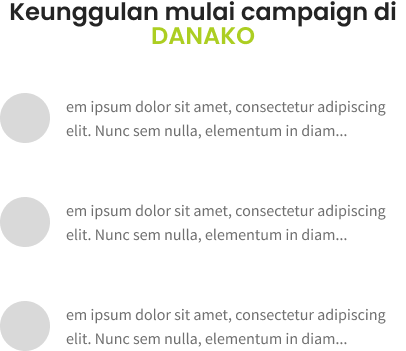
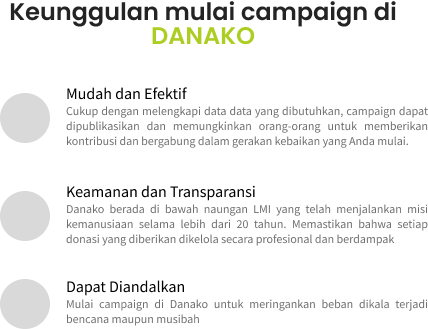
updae

diff --git a/public/danako/css/style.css b/public/danako/css/style.css
@@ -363,7 +363,7 @@
   
     .h-utama .banner{
       background: #C4C4C4;
-      opacity: 0.6;
+    
     }
   
     .banner {

diff --git a/resources/views/landing/utama.blade.php b/resources/views/landing/utama.blade.php
@@ -13,9 +13,9 @@
         <div class="banner">
             <div class="row ">
                 <div class="col-md-6">
-                    <p>Lorem ipsum dolor sit amet, consectetur adipiscing elit. Nunc</p>
-                    <h2 class="pb-3">Lorem ipsum dolor sit  amet consectetur.</h1>
-                    <button type="button" class="btn btn-primary btn-lg">Large button</button>
+                    <p class="text-dark">Tak perlu sejuta untuk berdampak, mulai dari seribu</p>
+                    <h1 class="pb-3 color-primary">Satukan kebaikan<br><span class="text-dark">Salurkan kebermanfaatan.</span> </h1>
+                    <button type="button" class="btn btn-primary btn-lg bg-danako-primary border-0 border-5">Donasi sekarang</button>
                 </div>
                 <div class="col-md-6">
                     <img src="{{ asset('') }}danako/img/campaignunggulan.png" class="img-fluid">
@@ -25,35 +25,37 @@
     </div>
   </section>
 
-  <section class="info-danako">
-    <div class="container">
-        <div class="banner-info">
-            <div class="row container">
-                <h4 class="text-center pt-2">Lorem Ipsum</h4>
-                <div class="col-md-3 text-center py-3 px-5">
-                    <img src="{{ asset('') }}danako/img/Ellipse67.png">
-                    <h5>Zakat</h5>
-                    <p>Lorem ipsum dolor sit amet, consectetur adipiscing elit. Nunc sem nulla</p>
-                </div>
-                <div class="col-md-3 text-center py-3 px-5">
-                    <img src="{{ asset('') }}danako/img/Ellipse67.png">
-                    <h5>Zakat</h5>
-                    <p>Lorem ipsum dolor sit amet, consectetur adipiscing elit. Nunc sem nulla</p>
-                </div>
-                <div class="col-md-3 text-center py-3 px-5">
-                    <img src="{{ asset('') }}danako/img/Ellipse67.png">
-                    <h5>Zakat</h5>
-                    <p>Lorem ipsum dolor sit amet, consectetur adipiscing elit. Nunc sem nulla</p>
-                </div>
-                <div class="col-md-3 text-center py-3 px-5">
-                    <img src="{{ asset('') }}danako/img/Ellipse67.png">
-                    <h5>Zakat</h5>
-                    <p>Lorem ipsum dolor sit amet, consectetur adipiscing elit. Nunc sem nulla</p>
-                </div>
-            </div>
-        </div>
-    </div>
-  </section>
+  <a href="{{ url('ziswaf') }}">
+    <section class="info-danako">
+      <div class="container">
+          <div class="banner-info">
+              <div class="row container">
+                  <h4 class="text-center pt-2 text-black">Lorem Ipsum</h4>
+                  <div class="col-md-3 text-center py-3 px-5">
+                      <img src="{{ asset('') }}danako/img/Ellipse67.png">
+                      <h5>Zakat</h5>
+                      <p>Sedekahkan harta, berbagilah dengan mereka yang membutuhkan.</p>
+                  </div>
+                  <div class="col-md-3 text-center py-3 px-5">
+                      <img src="{{ asset('') }}danako/img/Ellipse67.png">
+                      <h5>Infaq</h5>
+                      <p>Derma dari hati, tak terbatas waktu dan materi, demi kepentingan khalayak umum.</p>
+                  </div>
+                  <div class="col-md-3 text-center py-3 px-5">
+                      <img src="{{ asset('') }}danako/img/Ellipse67.png">
+                      <h5>Sedekah</h5>
+                      <p>Berikanlah bantuan dengan tulus, ringankan beban mereka yang terpuruk.</p>
+                  </div>
+                  <div class="col-md-3 text-center py-3 px-5">
+                      <img src="{{ asset('') }}danako/img/Ellipse67.png">
+                      <h5>Wakaf</h5>
+                      <p>Tanamkan amal jariyah, beri manfaat untuk umat selamanya.</p>
+                  </div>
+              </div>
+          </div>
+      </div>
+    </section>
+  </a>
 
   <section class="pt-5 pb-5">
     <h1 class="text-center">Kategori lainnya</h1>

diff --git a/resources/views/landing/ziswaf.blade.php b/resources/views/landing/ziswaf.blade.php
@@ -1,0 +1,97 @@
+@extends('landing.layouts.app')
+
+@section('title')
+    Dashboard
+@endsection
+
+
+
+@section('content')
+
+ <div class="container">
+        <div class="title">
+            <img src="{{ asset('') }}danako/img/Expand_left.svg" />
+            <span>Ziswaf</span>
+        </div>
+      </div>
+
+      <div class="container">
+        <div class="row">
+
+            <div class="col-md-3 mb-4">
+              <div class="card">
+                <div class="container">
+                  <div class="card-body">
+                    <div class="card-body d-flex align-items-center">
+                      <img src="https://via.placeholder.com/60" alt="Card image cap" class="rounded-circle me-3">
+                      <h5 class="card-title mb-0">Zakat</h5>
+                    </div>
+                    <p class="card-text">Lorem ipsum dolor sit amet, consectetur adipiscing elit. Nunc sem nulla, elementum in diam sit amet, Lorem ipsum dolor sit amet, consectetur adipisci.</p>
+                  </div>
+                  <img src="{{ asset('') }}danako/img/ziswaf/1.png" class="card-img-top" alt="...">
+                </div>
+              </div>
+            </div>
+          
+            <div class="col-md-3 mb-4">
+              <div class="card">
+                <div class="container">
+                  <img src="{{ asset('') }}danako/img/ziswaf/1.png" class="card-img-top" alt="...">
+                  <div class="card-body">
+                    <div class="card-body d-flex align-items-center">
+                      <img src="https://via.placeholder.com/60" alt="Card image cap" class="rounded-circle me-3">
+                      <h5 class="card-title mb-0">Zakat</h5>
+                    </div>
+                    <p class="card-text">Lorem ipsum dolor sit amet, consectetur adipiscing elit. Nunc sem nulla, elementum in diam sit amet, Lorem ipsum dolor sit amet, consectetur adipisci.</p>
+                  </div>
+                </div>
+              </div>
+            </div>
+
+            <div class="col-md-3 mb-4">
+                <div class="card">
+                  <div class="container">
+                    <div class="card-body">
+                      <div class="card-body d-flex align-items-center">
+                        <img src="https://via.placeholder.com/60" alt="Card image cap" class="rounded-circle me-3">
+                        <h5 class="card-title mb-0">Zakat</h5>
+                      </div>
+                      <p class="card-text">Lorem ipsum dolor sit amet, consectetur adipiscing elit. Nunc sem nulla, elementum in diam sit amet, Lorem ipsum dolor sit amet, consectetur adipisci.</p>
+                    </div>
+                    <img src="{{ asset('') }}danako/img/ziswaf/1.png" class="card-img-top" alt="...">
+                  </div>
+                </div>
+              </div>
+            
+              <div class="col-md-3 mb-4">
+                <div class="card">
+                  <div class="container">
+                    <img src="{{ asset('') }}danako/img/ziswaf/1.png" class="card-img-top" alt="...">
+                    <div class="card-body">
+                      <div class="card-body d-flex align-items-center">
+                        <img src="https://via.placeholder.com/60" alt="Card image cap" class="rounded-circle me-3">
+                        <h5 class="card-title mb-0">Zakat</h5>
+                      </div>
+                      <p class="card-text">Lorem ipsum dolor sit amet, consectetur adipiscing elit. Nunc sem nulla, elementum in diam sit amet, Lorem ipsum dolor sit amet, consectetur adipisci.</p>
+                    </div>
+                  </div>
+                </div>
+              </div>
+
+          </div>
+      </div>
+
+@endsection
+
+
+@push('after-script')
+
+
+
+
+<script>
+
+  </script>
+@endpush
+
+

diff --git a/resources/views/landing/index.blade.php b/resources/views/landing/index.blade.php
@@ -12,15 +12,15 @@
      <div class="text-center">
        <div class="text-header">
          <h1 class="color-primary">
-           Lorem ipsum dolor <span class="text-white">sit  amet</span>
+          Satukan kebaikan <span class="text-white">Salurkan </span>
            <br>
-           consectetur
+           Kebermanfaatan
          </h1>
-         <p class="text-white">Lorem ipsum dolor sit amet, consectetur adipiscing elit. Nunc</p>
+         <p class="text-white">Tak perlu sejuta untuk berdampak, mulai dari seribu</p>
        </div>
        <div class="btn-header pt-5">
-         <button type="button" class="btn btn-primary btn-lg bg-danako-primary border-0 bt-index mx-5 ">Large button</button>
-         <button type="button" class="btn btn-outline-secondary btn-lg mx-5 border-2 bt-index text-white">Large button</button>
+         <button type="button" class="btn btn-primary btn-lg bg-danako-primary border-0 bt-index mx-5 ">Donasi sekarang</button>
+         <a href="{{ url('ajukan-campaign') }}" class="btn btn-outline-secondary btn-lg mx-5 border-2 bt-index text-white">Ajukan campaign</a>
        </div>
      </div>
     </div>
@@ -44,7 +44,7 @@
                <h5 class="m-0">Cepat dan Tepat</h5>
              </div>
              <div class="card-body text-start text-hero">
-               Lorem ipsum dolor sit amet, consectetur adipiscing elit. Nunc sollicitudin arcu ligula, eget maximus sapien ultrices vel. Ut erat metus, posuere et dictum sit amet, Lorem ipsum dolor sit amet, consectetur 
+              Kami mengutamakan kecepatan dan ketepatan dalam menyalurkan donasi. Hal ini tentunya akan sangat berguna bagi mereka yang saat ini sedang membutuhkan dana darurat.
              </div>
            </div>
          </div>
@@ -54,10 +54,10 @@
                <div class="icon">
                  <img src="{{ asset('') }}custom/icons/Done_all_round_light.svg" alt="">
                </div>
-               <h5 class="m-0">Cepat dan Tepat</h5>
+               <h5 class="m-0">Amanah</h5>
              </div>
              <div class="card-body text-start text-hero">
-               Lorem ipsum dolor sit amet, consectetur adipiscing elit. Nunc sollicitudin arcu ligula, eget maximus sapien ultrices vel. Ut erat metus, posuere et dictum sit amet, Lorem ipsum dolor sit amet, consectetur 
+              Kami berkomitmen untuk menjaga kepercayaan Anda sebagai donatur. Oleh karena itu, kami selalu memastikan transparansi dan akuntabilitas dalam mengelola donasi yang diterima.
              </div>
            </div>
          </div>
@@ -67,10 +67,10 @@
                <div class="icon">
                  <img src="{{ asset('') }}custom/icons/Line_up_light.svg" alt="">
                </div>
-               <h5 class="m-0">Cepat dan Tepat</h5>
+               <h5 class="m-0">Berdampak</h5>
              </div>
              <div class="card-body text-start text-hero">
-               Lorem ipsum dolor sit amet, consectetur adipiscing elit. Nunc sollicitudin arcu ligula, eget maximus sapien ultrices vel. Ut erat metus, posuere et dictum sit amet, Lorem ipsum dolor sit amet, consectetur 
+              Berikan dampak yang positif bagi mereka yang membutuhkan. Jadilah bagian dari perubahan bagi umat yang bermanfaat dan berdampak melalui platform DANAKO.
              </div>
            </div>
          </div>

diff --git a/resources/views/landing/ajukan_campaign.blade.php b/resources/views/landing/ajukan_campaign.blade.php
@@ -9,17 +9,17 @@
 @section('content')
 
 
-<div class="container pt-3 pb-3">
+{{-- <div class="container pt-3 pb-3">
       <img src="{{ asset('') }}danako/img/Expand_left.svg" />
-</div>
+</div> --}}
 
-<section class="c-notverifikasi">
+<section class="c-notverifikasi mb-4 mt-4">
   <div class="d-flex justify-content-center flex-column"> <!-- tambahkan flex-column -->
     <div class="row">
       <div class="col-md-12">
         <div class="title">
-          <h6>Mulai buat campaign di DANAKO</h6>
-          <p>Lorem ipsum dolor sit amet Lorem ipsum dolor sit amet Lorem ipsum dolor</p>
+          <h6>Mulai buat campaign di <span class="color-primary">Danako</span></h6>
+          <p>Dan ringankan beban tanggungan dikala membutuhkan!</p>
         </div>
       </div>
     </div>
@@ -39,7 +39,7 @@
 
     </div>
 
-    <button type="button" class="btn btn-outline-success btn-lg bg-white mt-4">Lanjut</button>
+    <a href="{{ url('buat-campaign') }}" class="btn btn-outline-success text-black btn-lg bg-white mt-4 ">Lanjut</a>
 
   </div>
 </section>

diff --git a/routes/web.php b/routes/web.php
@@ -71,9 +71,14 @@ Route::group(['prefix' => 'admin'], function () {
 Route::get('/user', function () { return view('landing.index');})->name('landing');
 Route::get('/', function () { return view('landing.index');})->name('home');
 
-Route::get('/utama', function () {
+Route::get('/Halaman-utama', function () {
     return view('landing.utama');
 })->name('afterlogin');
+
+Route::get('/ziswaf', function () {
+    return view('landing.ziswaf');
+});
+
 
 
 Route::get('/login', function () { return view('landing.login');})->name('login');
@@ -99,6 +104,7 @@ Route::get('/kategori/{id}', function ($id) {
 Route::get('/ajukan-campaign', function () {
     return view('landing.ajukan_campaign');
 });
+
 
 
 Route::get('/campaign-pending', function () {
